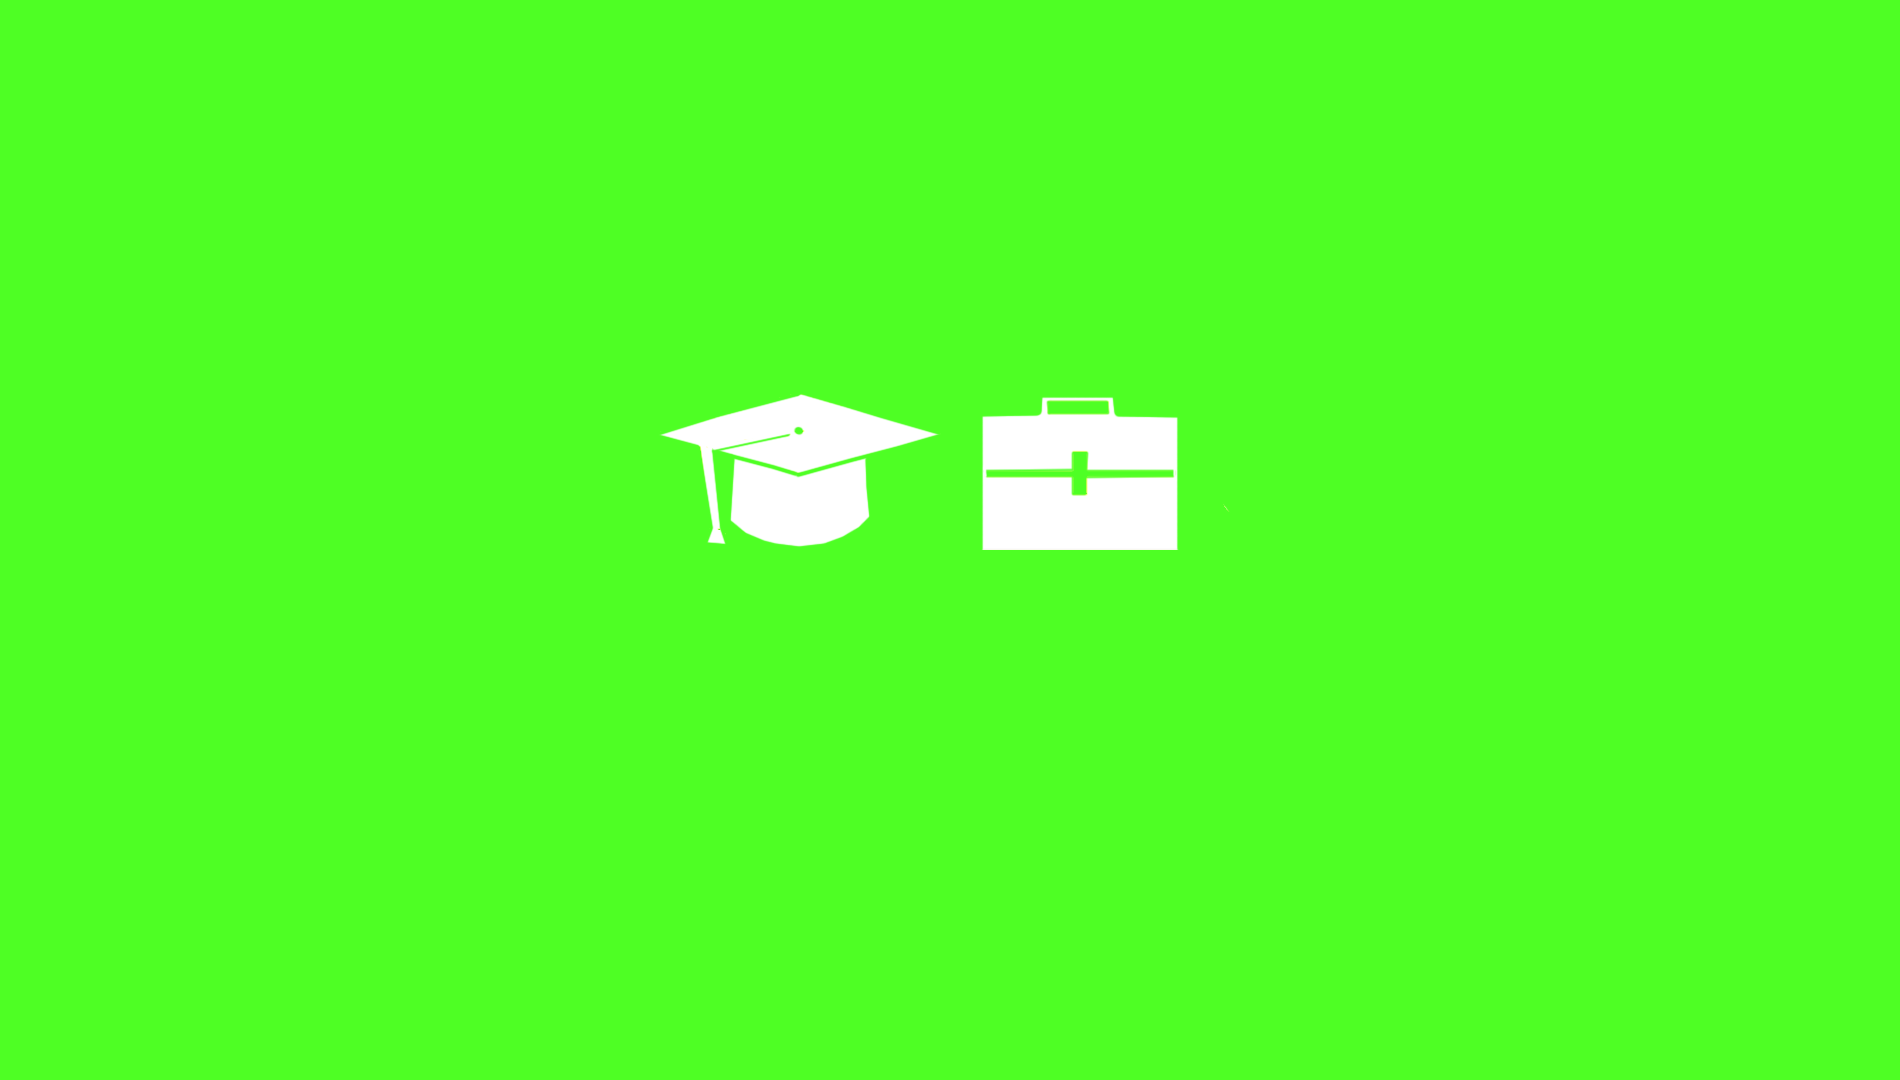
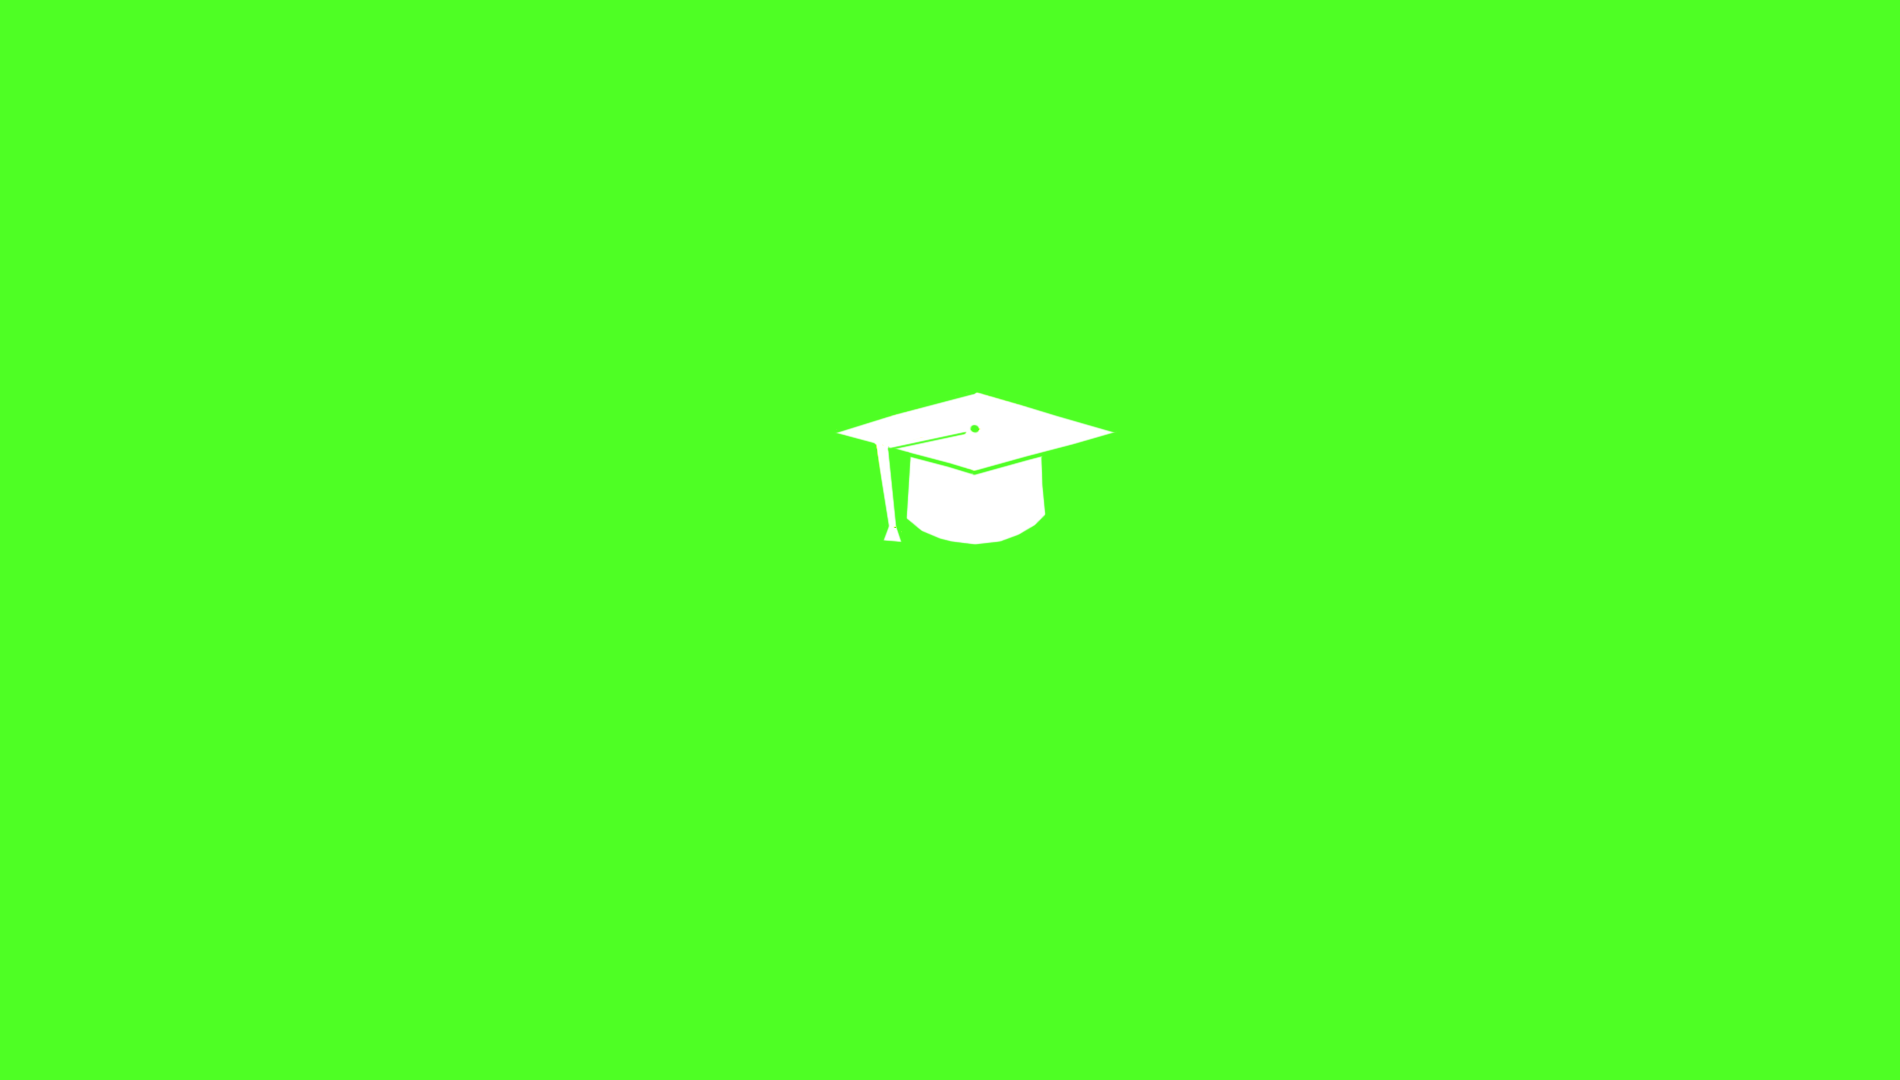
Correzione parte del lavoro

Changed region(s): [[0.3416, 0.3667, 0.6211, 0.5194]]

diff --git a/index.html b/index.html
@@ -49,6 +49,7 @@
         <li data-target="#myCarousel" data-slide-to="1"></li>
         <li data-target="#myCarousel" data-slide-to="2"></li>
         <li data-target="#myCarousel" data-slide-to="3"></li>
+        <li data-target="#myCarousel" data-slide-to="4"></li>
     </ol>
 
     <!-- Wrapper for slides -->
@@ -67,17 +68,23 @@
         </div>
         <div class="item">
             <!-- <div class="fill" style="background-image:url('http://placehold.it/1900x1080&text=Progetti');"></div>-->
-            <div class="fill" style="background-image:url('img/Slide3.png');"></div> 
+            <a href="./progetti/"><div class="fill" style="background-image:url('img/Slide3.png');"></div> 
             <div class="carousel-caption">
                 <h2>PROGETTI</h2>
-            </div>
+                </div></a>
         </div>
-         <div class="item">
-            <div class="fill" style="background-image:url('img/Slide4.png');"></div>
+        <div class="item">
+            <a href="./studio/"><div class="fill" style="background-image:url('img/Slide4.png');"></div>
             <div class="carousel-caption">
-                <h2>STUDIO E LAVORO</h2>
-            </div>
-        </div>  
+                <h2>STUDIO</h2>
+            </div></a>
+        </div>
+        <div class="item">
+            <a href="./lavoro/"><div class="fill" style="background-image:url('img/Slide5.png');"></div>
+            <div class="carousel-caption">
+                <h2>LAVORO</h2>
+            </div></a>
+        </div> 
         
     </div>
 
@@ -163,7 +170,7 @@
             <br>
 
             <div class="col-md-4">
-                <a class="btn btn-lg btn-default btn-block" href="#">Accedi al gioco!</a>
+                <a class="btn btn-lg btn-default btn-block" href="/game/">Accedi al gioco!</a>
             </div>
             <br>
         </div>

diff --git a/servizi/index.html b/servizi/index.html
@@ -9,7 +9,7 @@
     <meta name="description" content="">
     <meta name="author" content="">
 
-    <title>Studio - Informatica sarà lei!</title>
+    <title>Servizi - Informatica sarà lei!</title>
 
     <!-- Bootstrap Core CSS -->
     <link href="../css/bootstrap.min.css" rel="stylesheet">
@@ -46,13 +46,13 @@
     <!-- Page Heading/Breadcrumbs -->
     <div class="row">
         <div class="col-lg-12">
-            <h1 class="page-header">Studio
+            <h1 class="page-header">Servizi
                 <small>Sottotitolo</small>
             </h1>
             <ol class="breadcrumb">
                 <li><a href="../index.html">Home</a>
                 </li>
-                <li class="active">Studio</li>
+                <li class="active">Servizi</li>
             </ol>
         </div>
     </div>

diff --git a/footer.html b/footer.html
@@ -5,7 +5,7 @@
             <div class="row">
                 <div class="footer-col col-md-4">
                     <!-- TODO Sostituire con indirizzo statico l'indirizzo dell'immagine -->
-                    <img src="/img/logo_regione.JPG" alt="Sappiamo che l'immagine non si vede ed è fatto apposta.">
+                    <img src="../img/logo_regione.JPG" alt="Sappiamo che l'immagine non si vede ed è fatto apposta.">
                 </div>
                 <div class="footer-col col-md-4">
                     <h3>Seguici su</h3>
